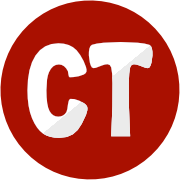
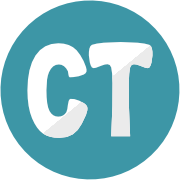
new color for 2021+ changed back to blue-colors.

diff --git a/static/css/color.css b/static/css/color.css
@@ -8,23 +8,23 @@
 a,
 a:visited,
 h3.article-title a:hover {
-    color: #F94144;
+    color: #0081A7;
 }
 
 a:hover {
-    color: #F3722C;
+    color: #00AFB9;
 }
 
 .navbar-default .navbar-nav li a:hover,
 .btn-primary,
 .btn-primary.btn-outline {
-    color: #F94144;
+    color: #0081A7;
 }
 
 .navbar-default .navbar-nav>.active>a,
 .navbar-default .navbar-nav>.active>a:focus,
 .navbar-default .navbar-nav>.active>a:hover{
-    color: #F94144;
+    color: #0081A7;
 }
 
 /* Articles */
@@ -38,20 +38,20 @@ a:hover {
 }
 
 .article-metadata a:hover {
-    color: #F94144;
+    color: #0081A7;
 }
 
 /* Standard buttons */
 
 .btn-primary,
 .btn-primary.btn-outline {
-    border-color: #F94144;
+    border-color: #0081A7;
 }
 
 /* Hover buttons */
 
 .btn-primary.btn-outline:hover {
-    border-color: #F94144;
+    border-color: #0081A7;
 }
 
 .btn-primary:hover,
@@ -60,12 +60,12 @@ a:hover {
 .btn-primary.active,
 .btn-primary:visited,
 .btn-primary.btn-outline:active {
-    background-color: #F94144;
+    background-color: #0081A7;
 }
 
 .btn-toolbar .btn-group .btn{
     color: #EEE;
-    background-color: #F94144;
+    background-color: #0081A7;
 }
 
 .btn-toolbar .btn-group .btn:hover{

diff --git a/static/css/ct_settings.css b/static/css/ct_settings.css
@@ -2,11 +2,11 @@
     line-height: normal;
     font-style: normal;
     font-size: 0.8rem;
-    color: #F9844A;
+    color: #99C1DE;
 }
 
 #ct_pub_simple_publication {
-    color: #E56B6F;
+    color: #335C67;
     font-size: 0.9rem;
 }
 
@@ -15,9 +15,9 @@ ul.pager {
 }
 
 .pub-list-item .pub-authors {
-    color: #F9844A;
+    color: #99C1DE;
 }
 
 .pub-list-item .pub-publication {
-    color: #E56B6F;
+    color: #335C67;
 }
